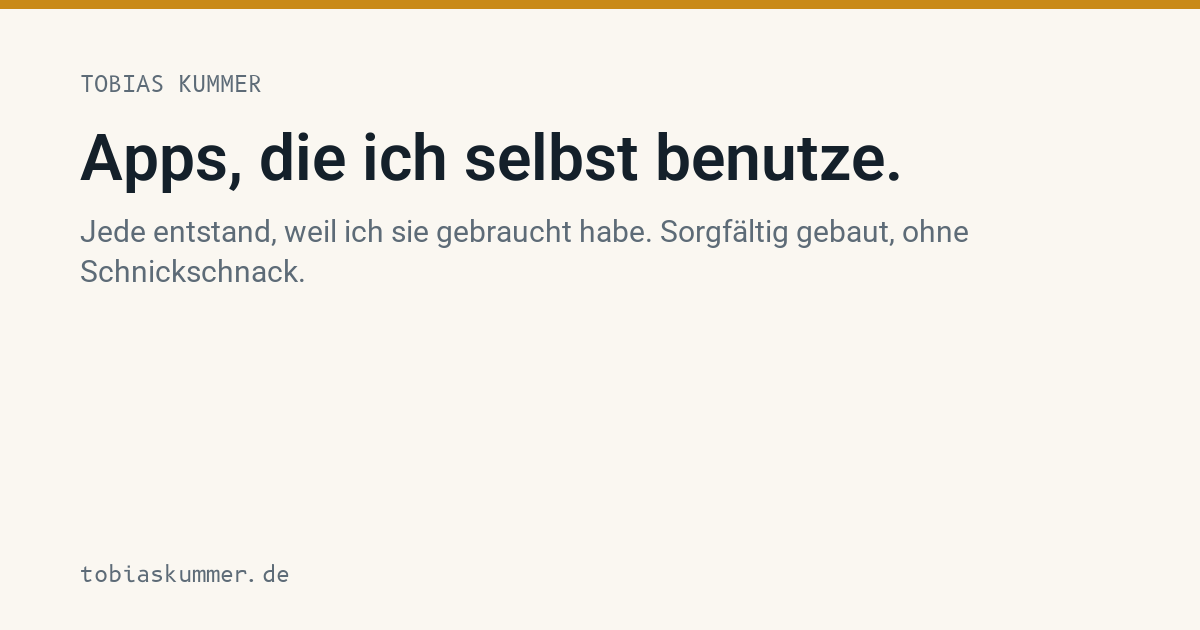
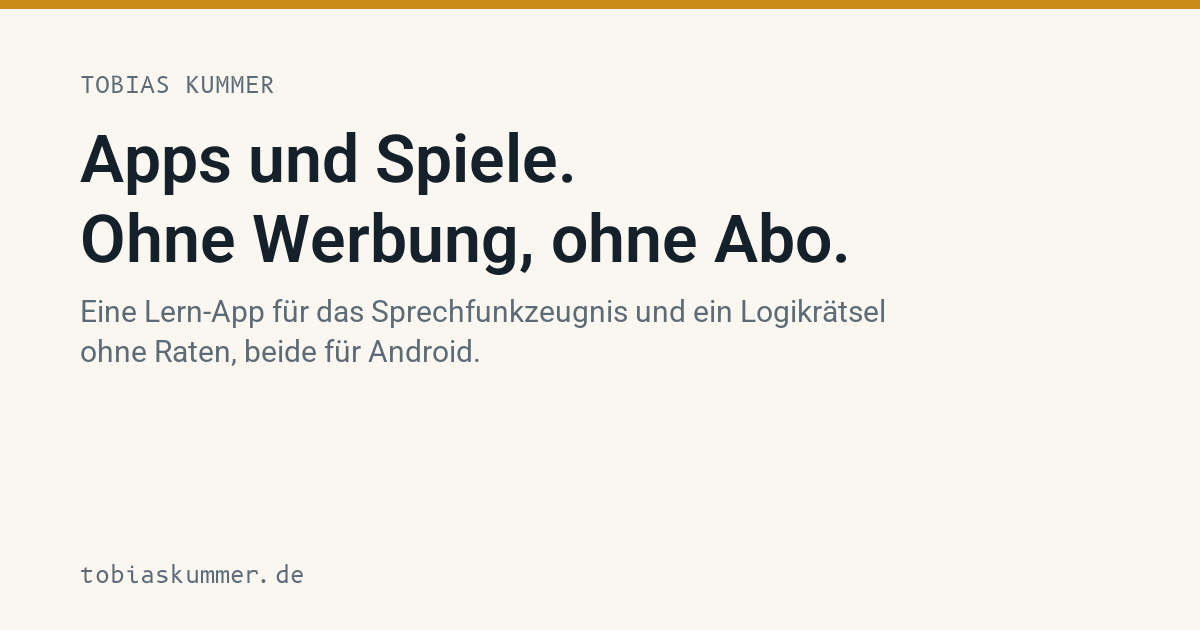
Startseite: Apps und Spiele, ohne Werbung, ohne Abo; Asterism dazu, mit Pressekit; neues Vorschaubild
Claude-Session: https://claude.ai/code/session_01F7SggHBAeeGux5ii97cjZj

diff --git a/index.html b/index.html
@@ -8,15 +8,15 @@
 <link rel="icon" type="image/png" sizes="512x512" href="/symbol-512.png">
 <link rel="apple-touch-icon" sizes="180x180" href="/symbol-180.png">
 <title>Tobias Kummer</title>
-<meta name="description" content="Apps von Tobias Kummer, sorgfältig gebaut und selbst benutzt. Darunter BZF-Prüfung, die Lern-App für das Sprechfunkzeugnis BZF I und BZF II.">
+<meta name="description" content="Apps und Spiele von Tobias Kummer, ohne Werbung und ohne Abo: BZF-Prüfung, die Lern-App für das Sprechfunkzeugnis BZF I und BZF II, und Asterism, ein Logikrätsel ohne Raten. Beide für Android.">
 <meta name="robots" content="index,follow">
 <link rel="canonical" href="https://tobiaskummer.de/">
 <meta property="og:type" content="website">
 <meta property="og:locale" content="de_DE">
 <meta property="og:site_name" content="Tobias Kummer">
 <meta property="og:url" content="https://tobiaskummer.de/">
-<meta property="og:title" content="Tobias Kummer: Apps, die ich selbst benutze">
-<meta property="og:description" content="Jede entstand, weil ich sie gebraucht habe. Darunter BZF-Prüfung, die Lern-App für das Sprechfunkzeugnis BZF I und BZF II.">
+<meta property="og:title" content="Tobias Kummer: Apps und Spiele. Ohne Werbung, ohne Abo.">
+<meta property="og:description" content="Eine Lern-App für das Sprechfunkzeugnis BZF I und BZF II und Asterism, ein Logikrätsel ohne Raten. Beide für Android.">
 <meta property="og:image" content="https://tobiaskummer.de/og.png">
 <meta property="og:image:width" content="1200">
 <meta property="og:image:height" content="630">
@@ -74,8 +74,8 @@
 
   <section class="hero portal">
     <div class="wrap">
-      <h1>Apps, die ich selbst benutze.</h1>
-      <p class="lead">Jede entstand, weil ich sie gebraucht habe. Sorgfältig gebaut, ohne Schnickschnack.</p>
+      <h1 style="max-width:none">Apps und Spiele.<br>Ohne Werbung, ohne Abo.</h1>
+      <p class="lead">Eine Lern-App für das Sprechfunkzeugnis und ein Logikrätsel ohne Raten, beide für Android.</p>
     </div>
   </section>
 
@@ -95,6 +95,19 @@
             </div>
           </div>
           <a class="schirm" href="/bzf-pruefung/"><img src="/bzf-pruefung/bilder/03-fragen-erklaerung.png" width="540" height="960" alt="Eine Frage mit erklärter Antwort in der App BZF-Prüfung"></a>
+        </article>
+        <article class="app">
+          <div>
+            <p class="eyebrow">Android · Logikrätsel</p>
+            <h2>Asterism</h2>
+            <p>Ein Logikrätsel auf Sechsecken, wie Minesweeper, nur ohne Raten: Jedes Rätsel lässt sich allein durch Nachdenken lösen. Wer den letzten Stern setzt, sieht die gefundenen Sterne zu einem Sternbild zusammenfinden.</p>
+            <div class="actions">
+              <a class="play" href="https://play.google.com/store/apps/details?id=com.tobkum.asterism"><img class="badge" src="/bzf-pruefung/bilder/google-play-badge-de.png" width="646" height="250" alt="Jetzt bei Google Play"></a>
+              <a class="button" href="/asterism/press.html" hreflang="en">Pressekit (englisch)</a>
+              <span class="price">Kostenlos, alles einmalig 4,99 €</span>
+            </div>
+          </div>
+          <a class="schirm" href="/asterism/press.html"><img src="/asterism/press/thumb-02-constellation.jpg" width="540" height="960" alt="Ein gelöstes Rätsel in Asterism: die gefundenen Sterne bilden den Schwan" loading="lazy"></a>
         </article>
       </div>
     </div>
